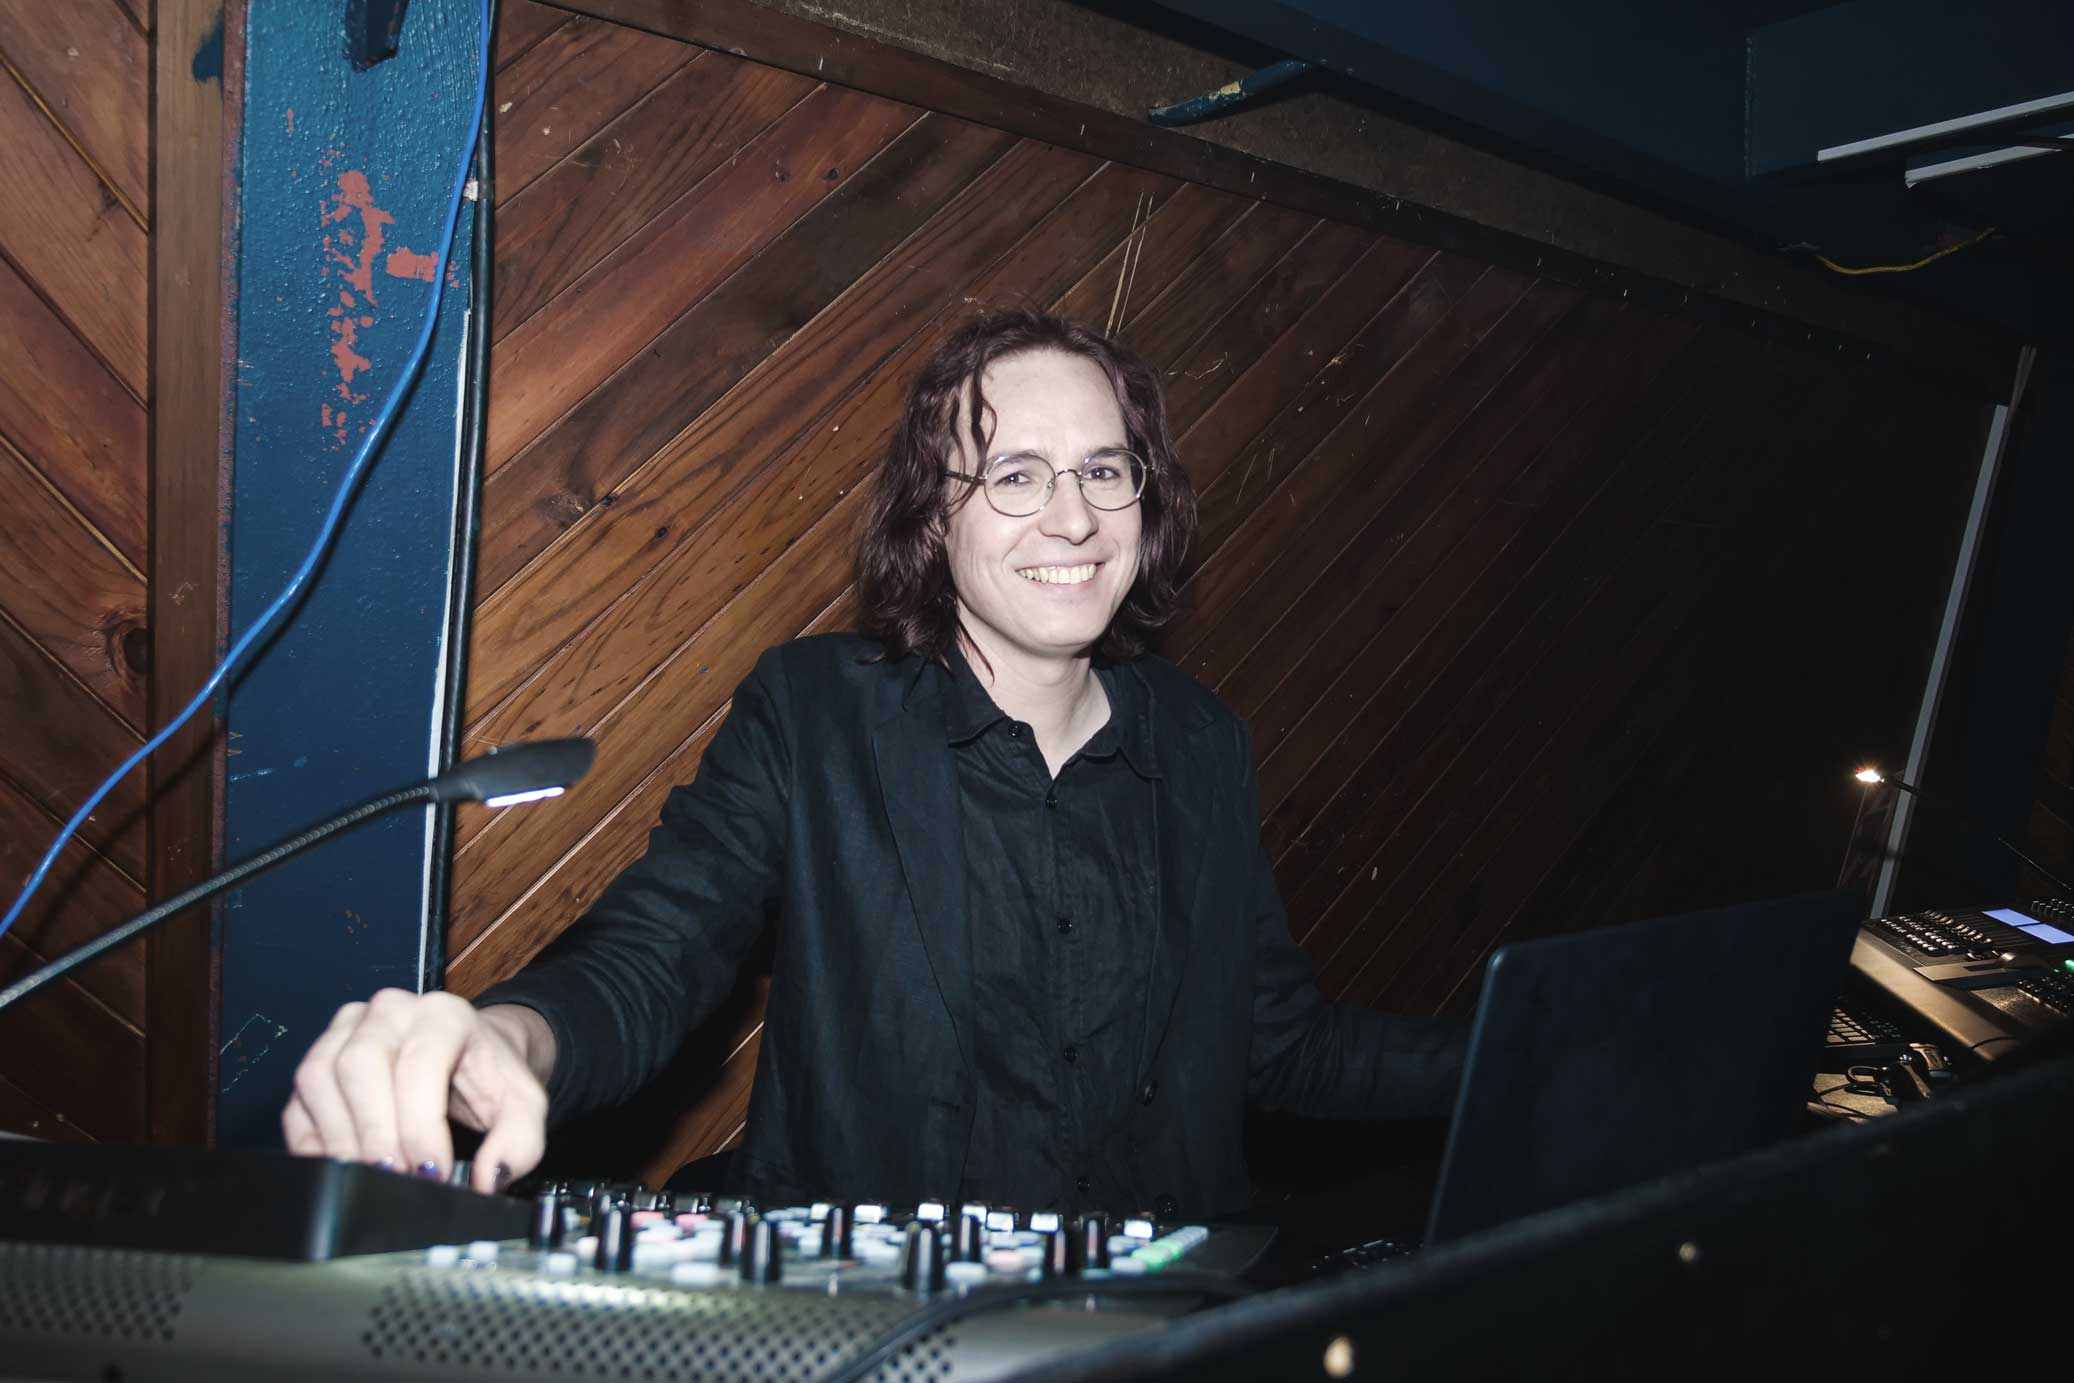
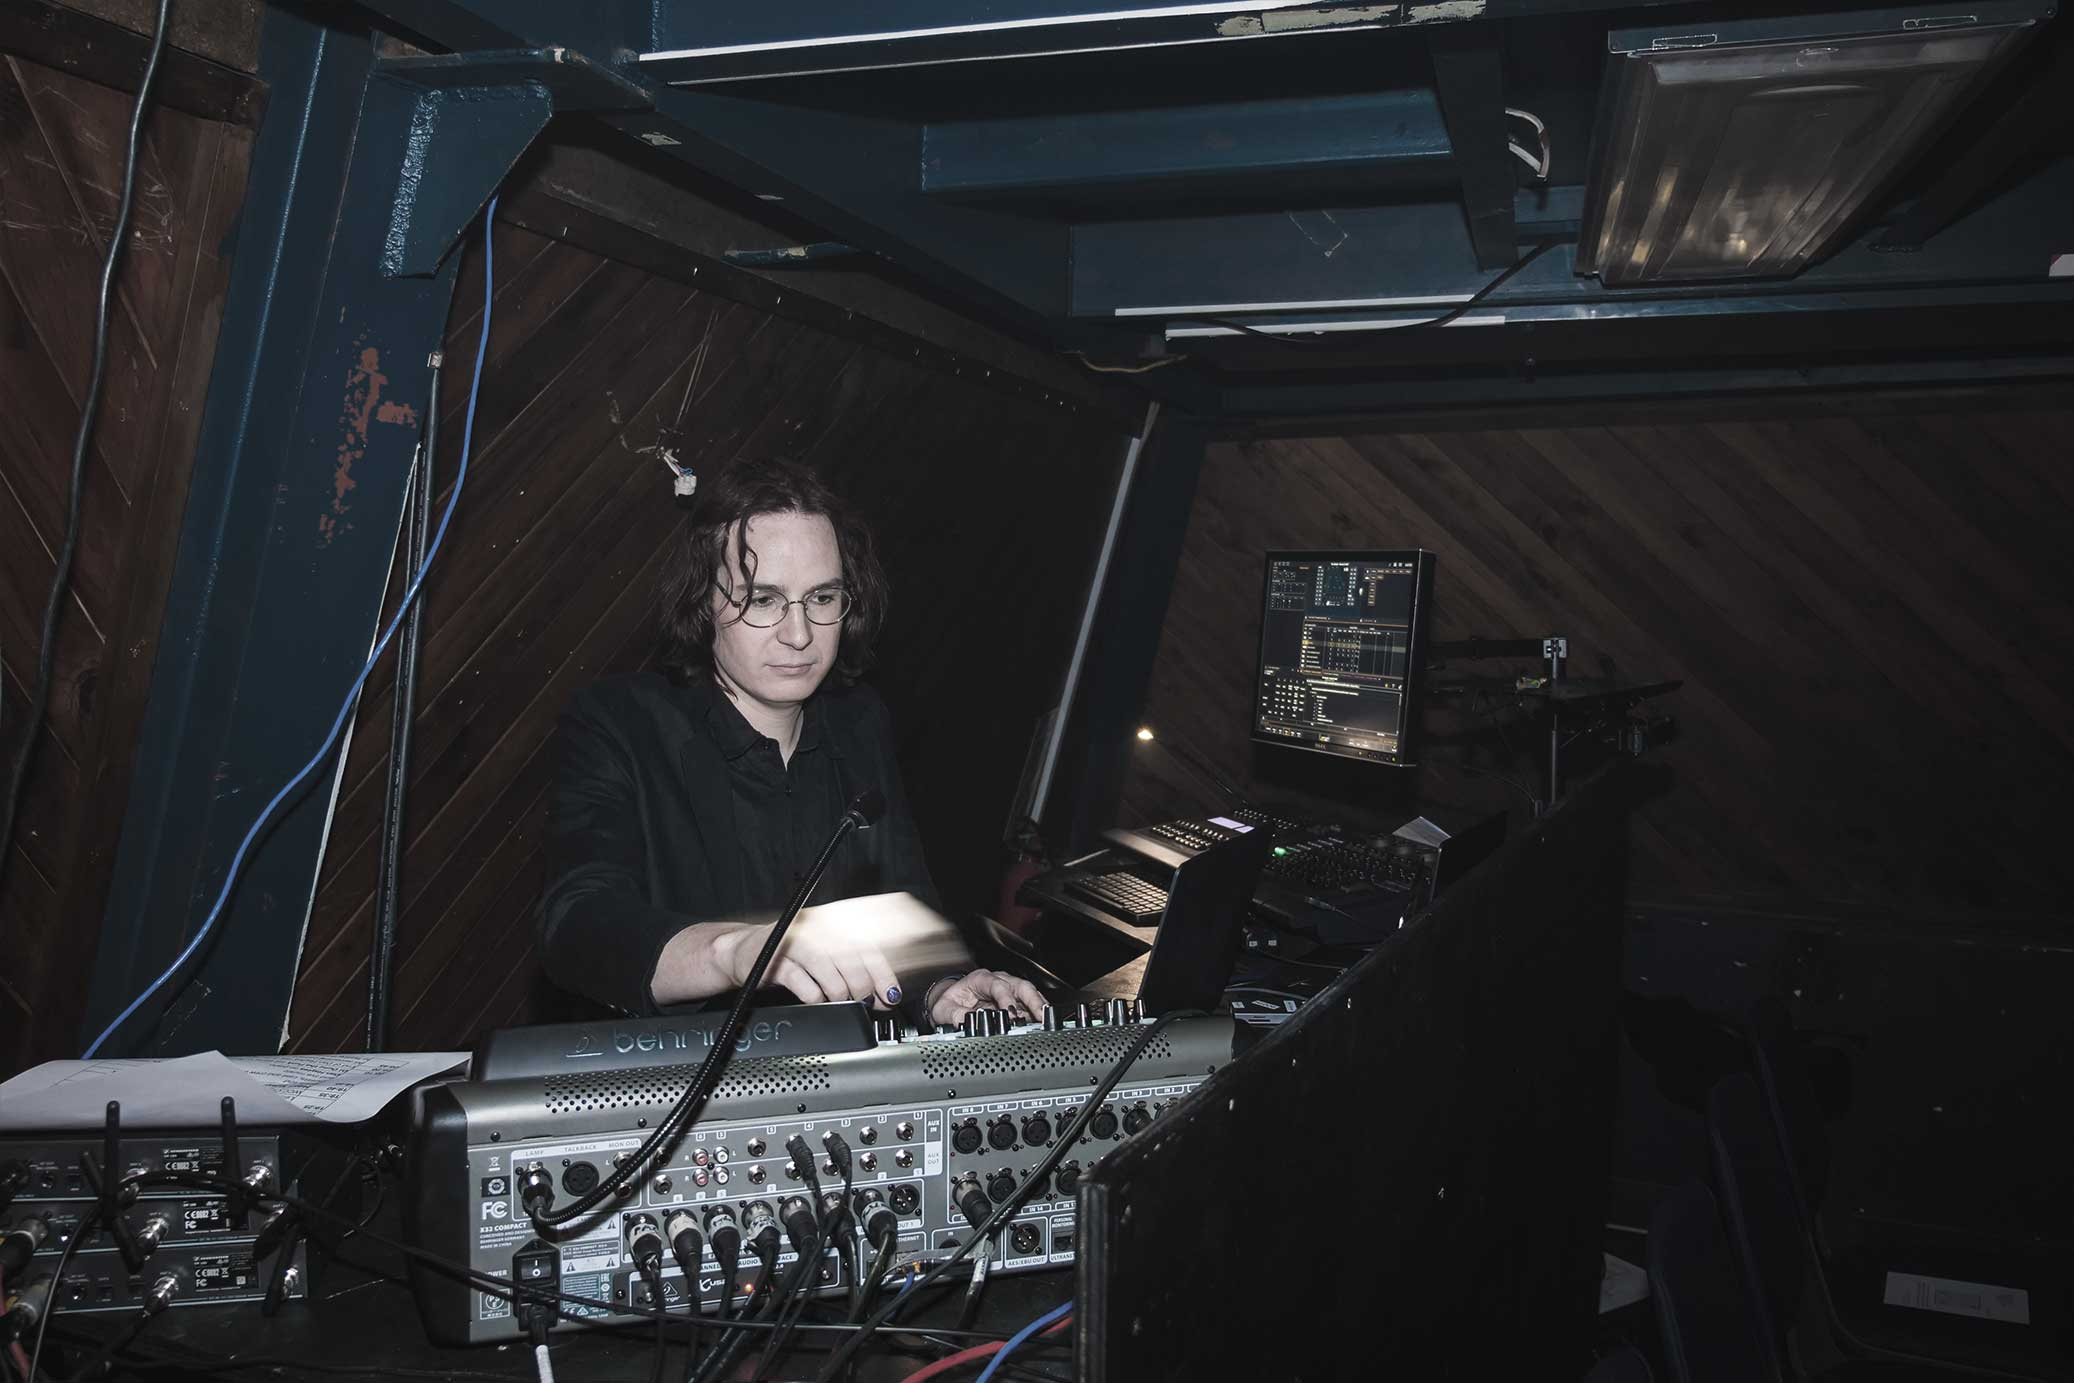
About Us + photo updates

diff --git a/_includes/sections/about.html b/_includes/sections/about.html
@@ -18,13 +18,13 @@
       <!-- Section Content -->
       <div class="col-md-8 col-md-push-1 col-sm-12 section-content thin">
 
-        <img src="{{ site.baseurl }}/images/RocT-221-1.jpg" alt="Greyscale photo of Paige smiling past the camera." />
-        <p class="subtitle">Sound mixing for WITCH Music Theatre’s ROXY at Te Auaha.</p>
+        <img src="{{ site.baseurl }}/images/about.jpg"/>
+        <p class="subtitle">Sound mixing at the Hannah in Te Whanganui-a-Tara Wellington.</p>
         <br class="normal">
 
         <p>Paige is a highly skilled theatre technician with a broad expertise in delivering exceptional live events. With a solid foundation as a sound designer, she brings additional technical proficiency in lighting design, production management, and stage management. Her versatile experience makes her a valuable asset across a variety of production disciplines.</p>
         <p>Paige studied at Mountview Academy of Theatre Arts in London, where she earned a Postgraduate Diploma in Theatre Production Arts with Distinction. During her time in the UK, she worked on high-profile productions such as <em>Hamilton</em>, <em>Wicked</em>, and <em>Phantom of the Opera</em>, gaining invaluable experience on large-scale, world-class shows.</p>
-        <p>Since returning to New Zealand, Paige has built an impressive portfolio, contributing as a sound engineer and programmer for notable events such as the Aotearoa New Zealand Festival, the World of Wearable Art, and the Kia Mau Festival. She has also worked as a technical contractor for companies including Grouse Lighting, YooCrew, and Tungsten Projects. Most recently, Paige served as the Head of Sound for the Royal New Zealand Ballet on their national tour of <em>A Midsummer Night’s Dream</em>.</p>
+        <p>Since returning to New Zealand, Paige has built an impressive portfolio, contributing as a sound engineer and programmer for notable events such as the Aotearoa New Zealand Festival, World of WearableArt, and the Kia Mau Festival. She has also worked as a technical contractor for companies including Grouse Lighting, YooCrew, and Tungsten Projects. Most recently, Paige served as the Head of Sound for the Royal New Zealand Ballet on national touring productions, including<em>A Midsummer Night’s Dream</em>, <em>The Firebird</em> and <em>Home, Land and Sea</em>.</p>
         <p>Passionate about the craft of theatre, Paige has designed for a range of companies, including WITCH Music Theatre, Red Scare Theatre, and Whitireia Musical Theatre. She also spent two years as the Venue Technician at Te Auaha, and has extensive experience in technical operations across a wide variety of venues in Te Whanganui-a-Tara and throughout Aotearoa.</p>
         <p>With a dedication to pushing creative boundaries and ensuring seamless technical execution, Paige continues to be a dynamic force in the New Zealand theatre and events community.</p>
 
